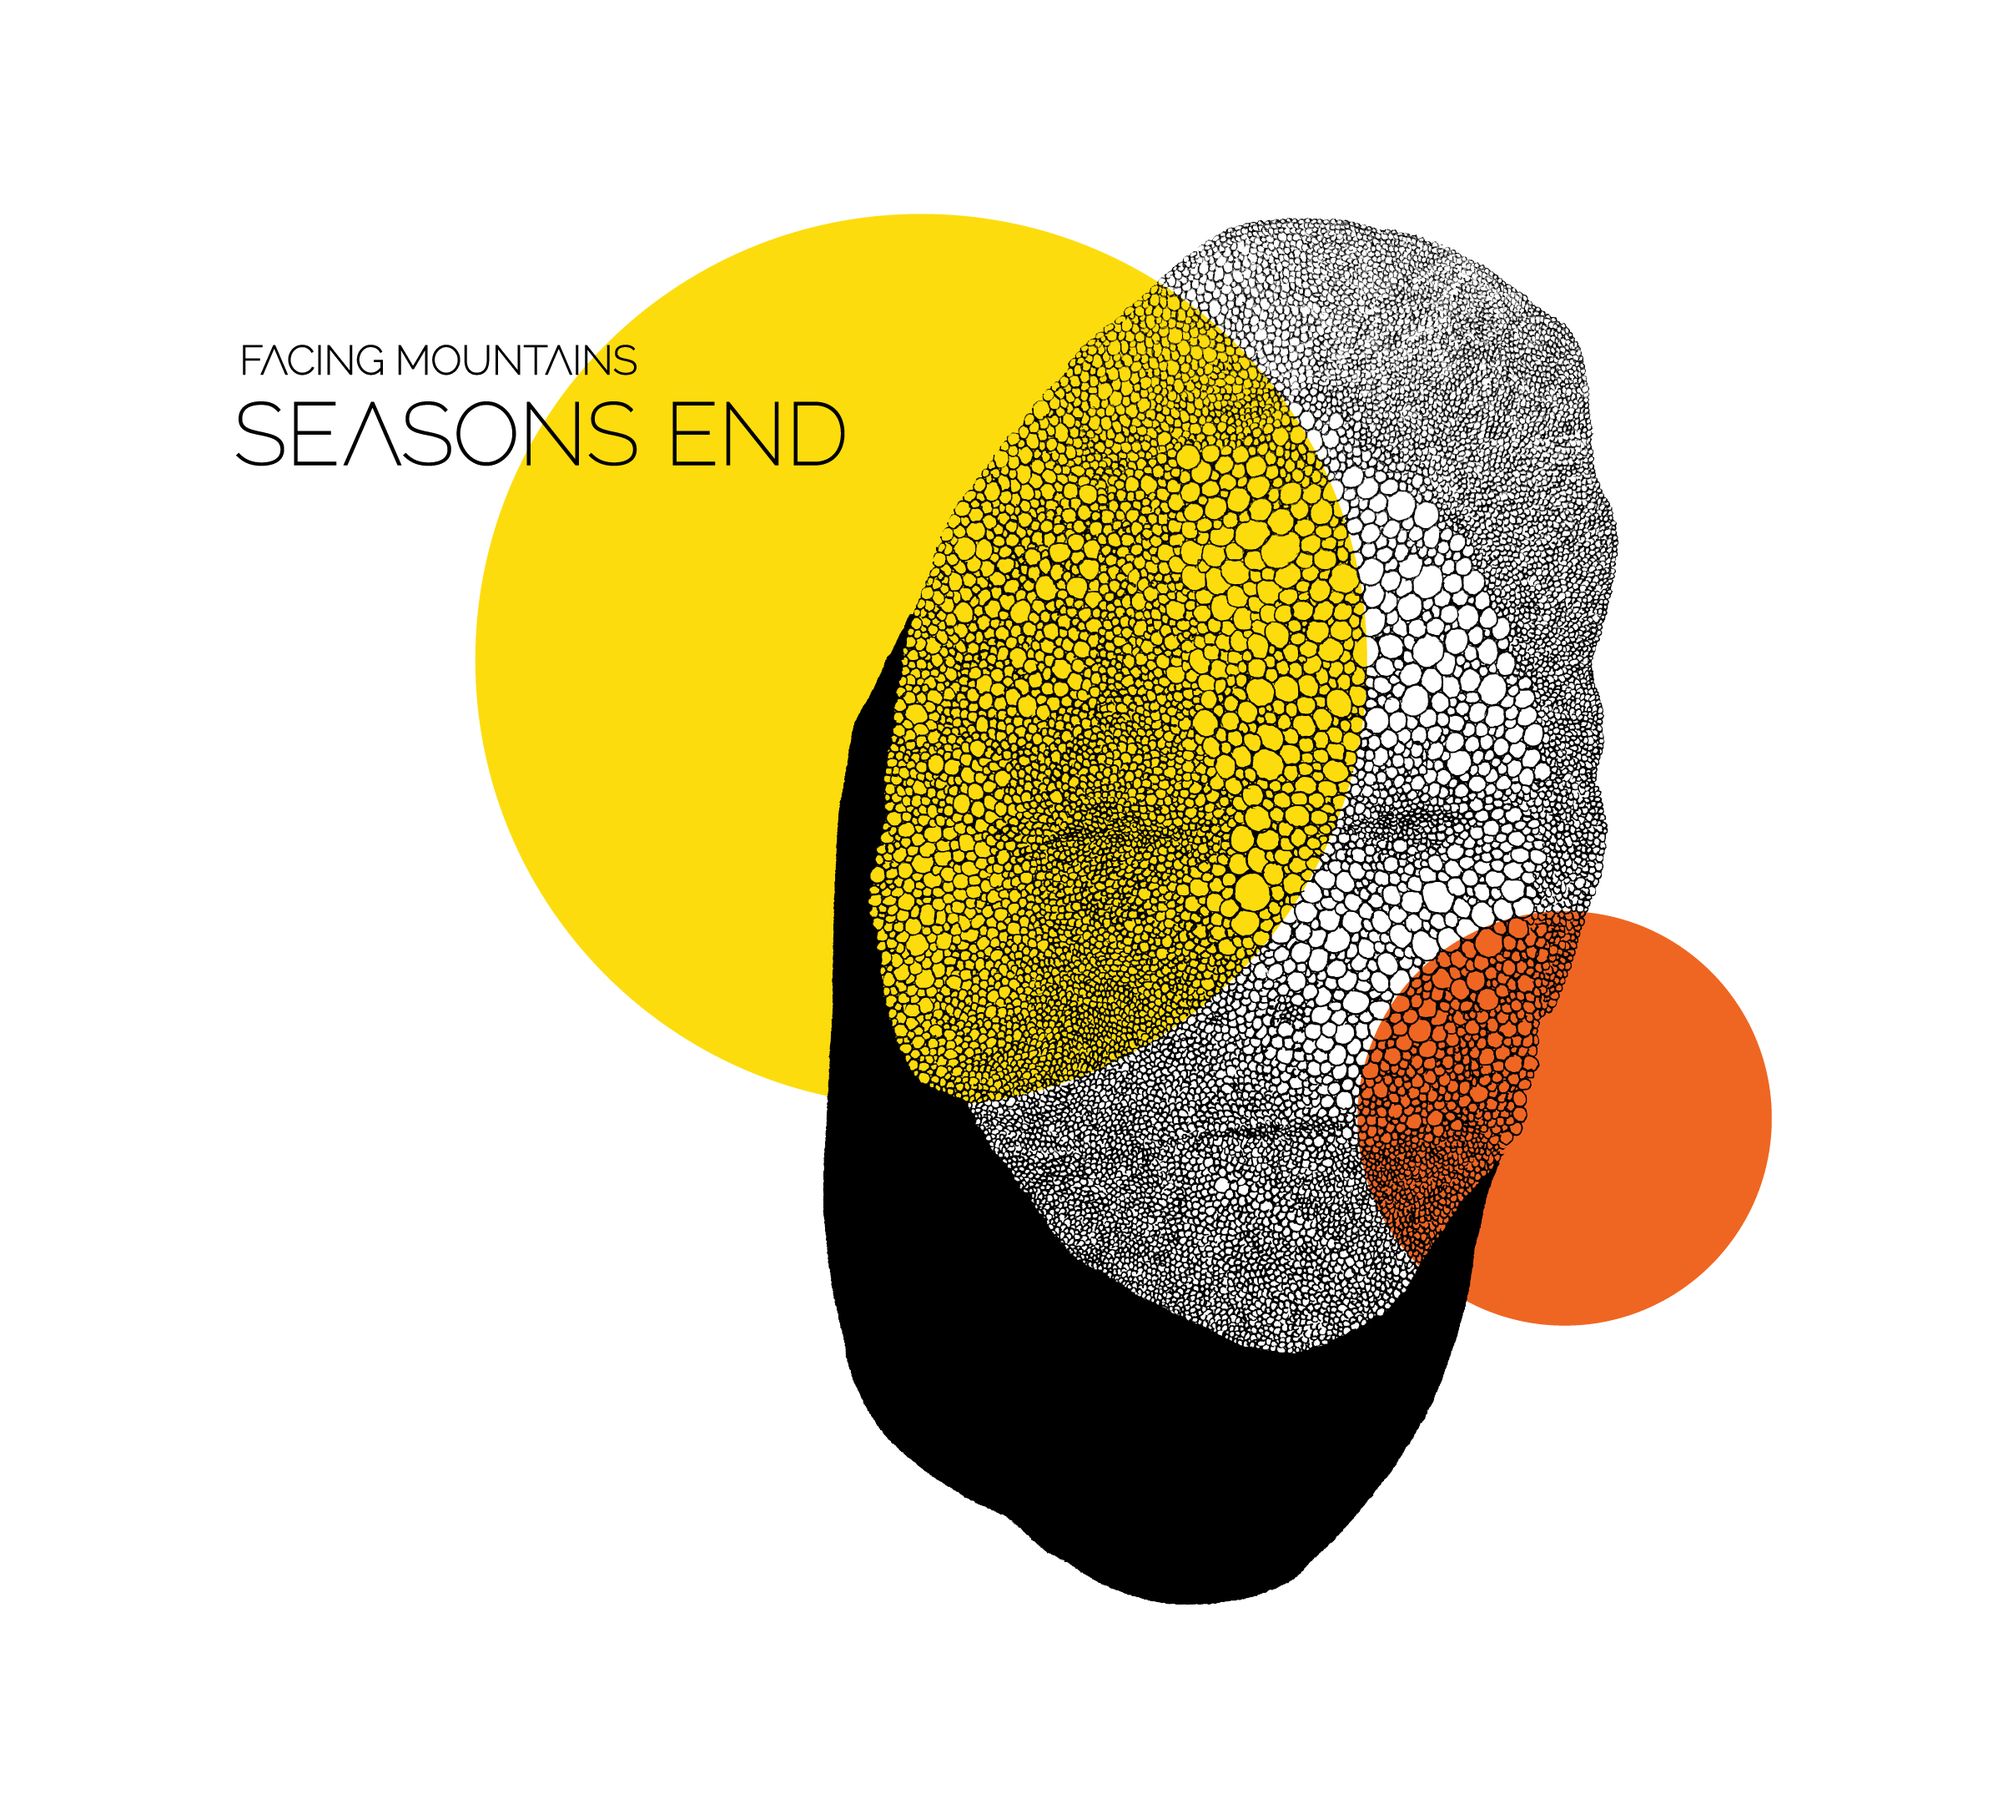
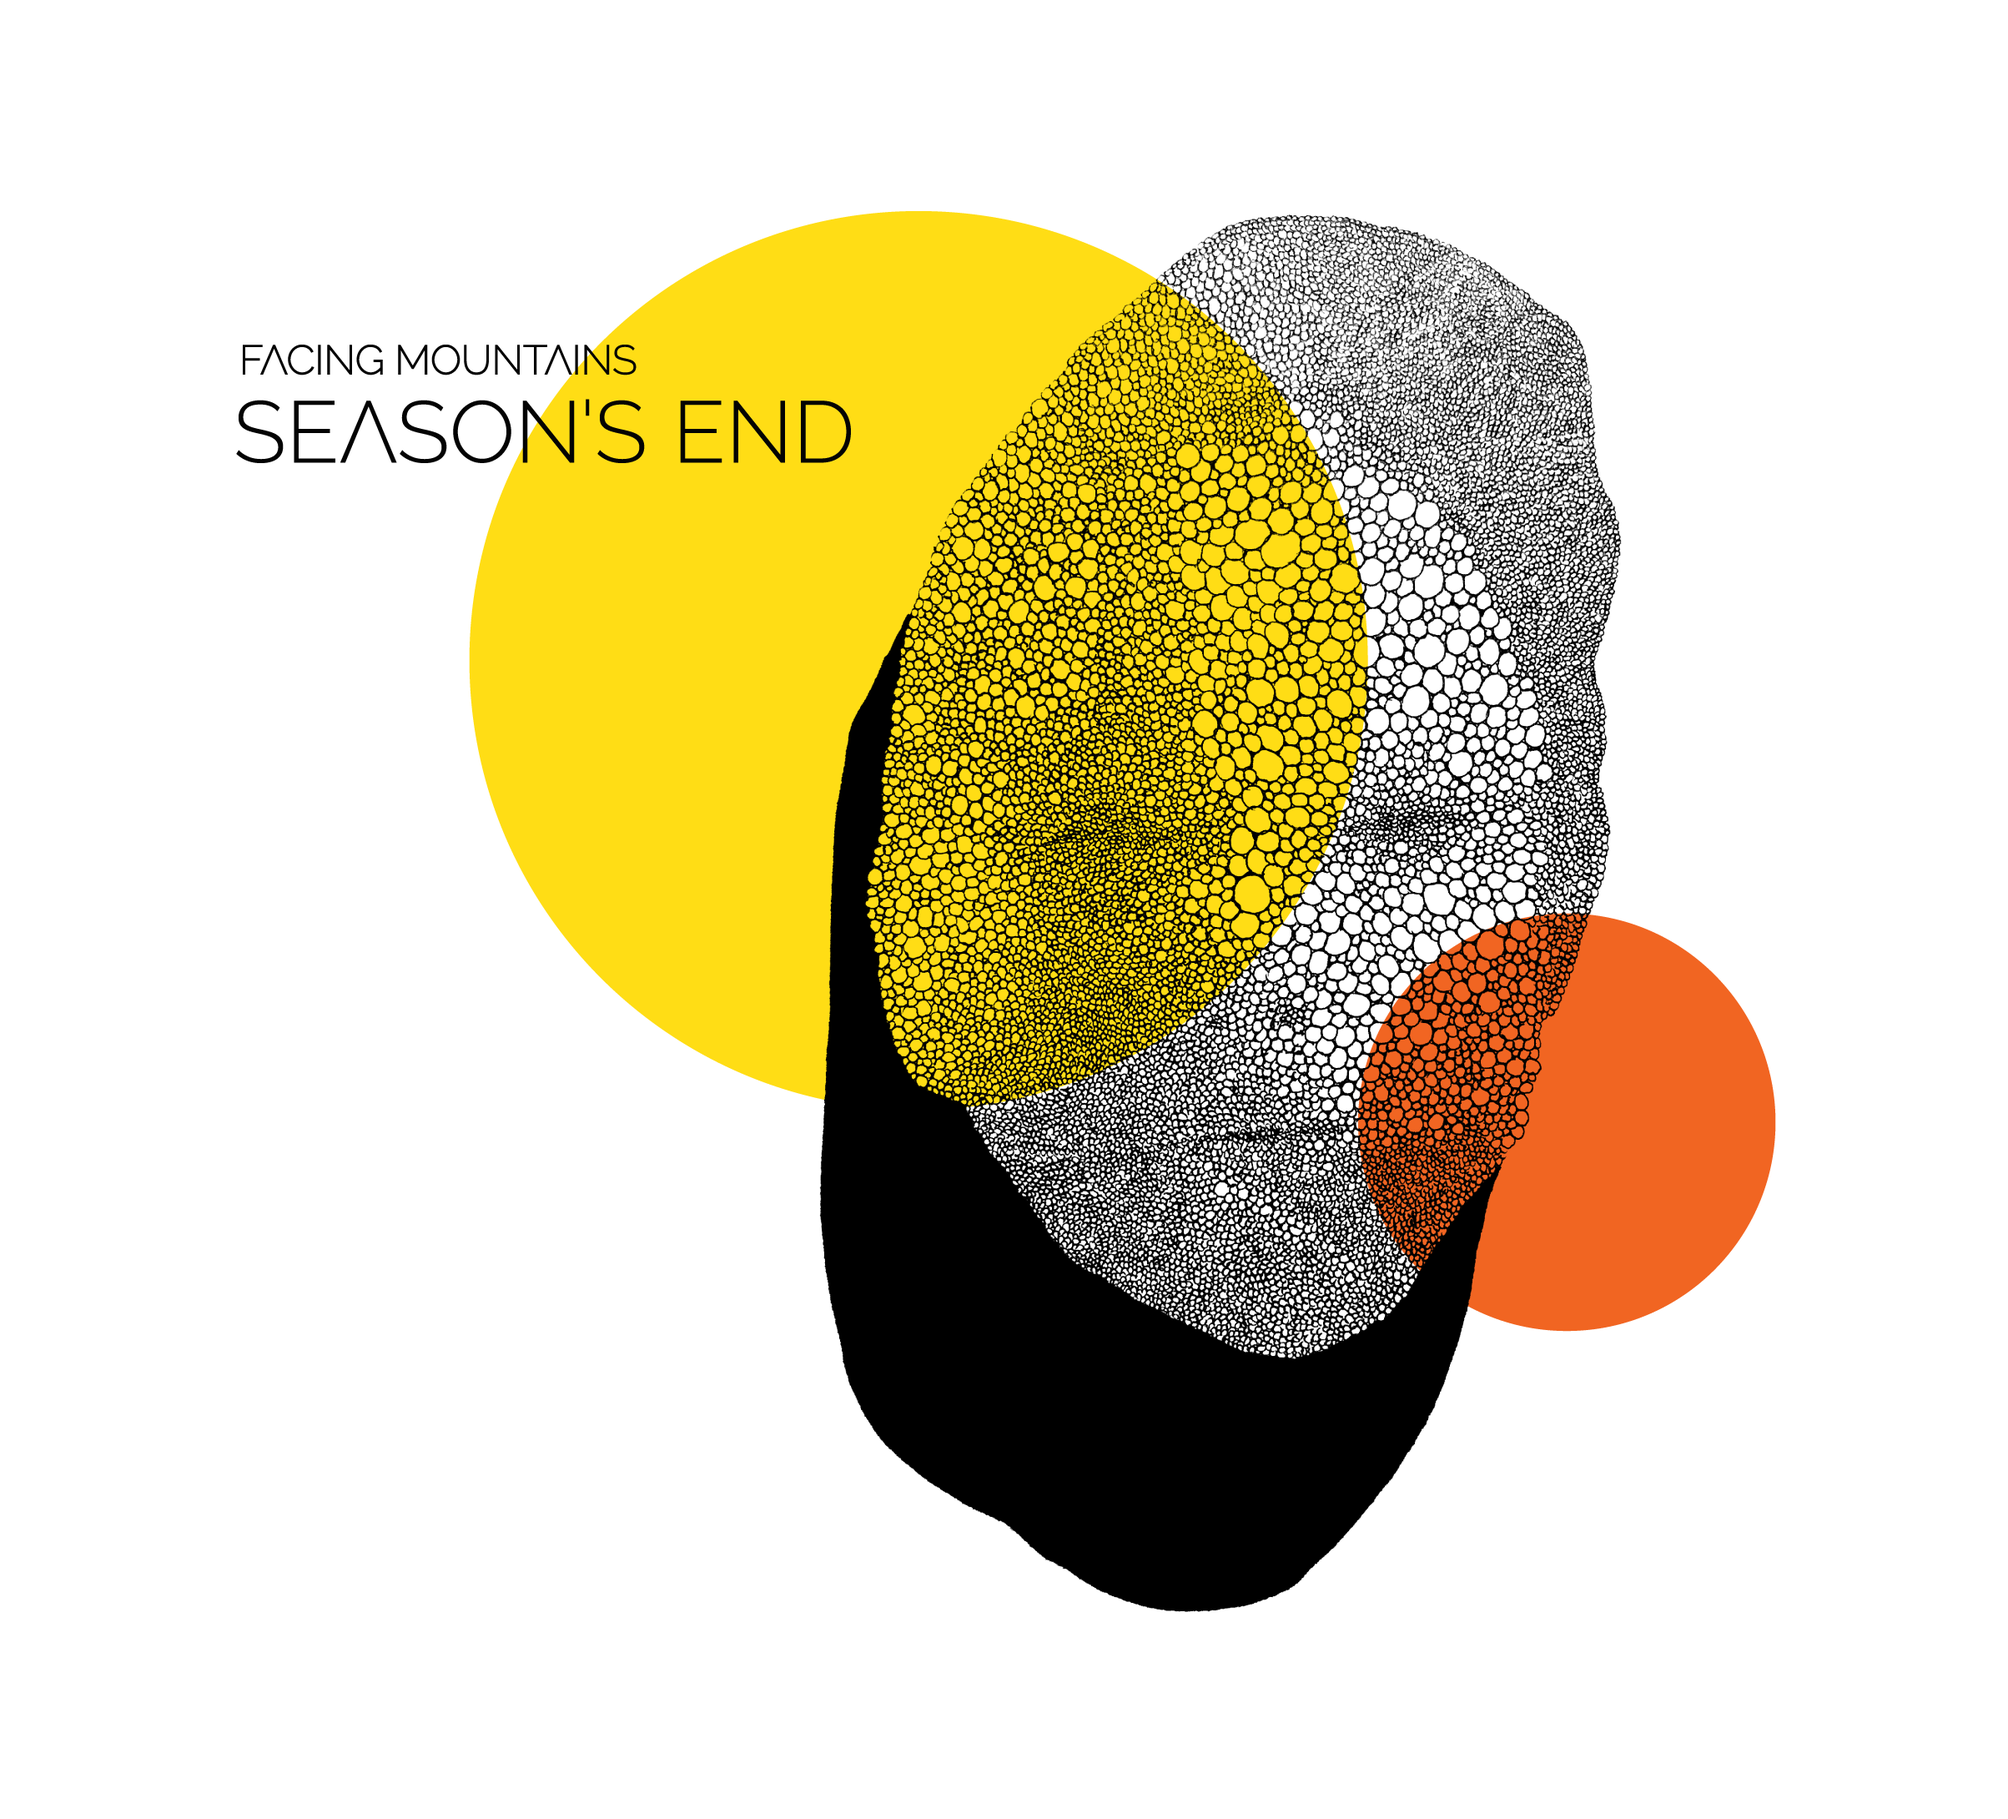
image change,bio and player update

diff --git a/index.html b/index.html
@@ -105,7 +105,7 @@
     <section id="listen" class="section section-listen is-background-light">
       <div class="listen-content">
         <div class="listen-spotfy-player">
-          <iframe src="https://open.spotify.com/embed/album/6CRrgb2SrDAtj2mMOu1Pfb" width="300" height="380"
+          <iframe src="https://open.spotify.com/embed/playlist/4MFdyILN00IcVmgeLf4pMD" width="300" height="380"
             frameborder="0" allowtransparency="true" allow="encrypted-media"></iframe>
         </div>
         <img class="listen-cover-image" src="assets/img/image_face-01.png" />
@@ -143,28 +143,22 @@
           </div>
           <div class="bio-text">
             <p>
-              The personal and heartfelt music of Facing Mountains was born
-              out of a longing from Dutch composer and songwriter Xander
-              Slikker. After treading on numerous musical journeys, he
-              developed an interest for new and old music. Eventually he has
-              found a way to combine his love for classical, alternative and
-              electronic music, and shape it into one identity.
+              The personal and heartfelt music of Facing Mountains was born out of a longing from Dutch composer and
+              songwriter Xander Slikker. After treading on numerous musical journeys, he has found a way to combine his
+              love for classical, alternative and electronic music and shape it into one identity.
             </p>
             <p>
-              A believe in the power of melodic storytelling is what lies
-              behind and drives Facing Mountains. The fluid style evokes
-              introspective images with it's strong influence of classical
-              music and fine balance between acoustic and electronic sounds.
-              With artists such as Gotye, Radiohead and Nick Drake as an
-              inspiration, Facing Mountains creates rich and colourful
-              alternative pop music with cinematic elements.
+
+              What drives Facing Mountains is a firm belief in the power of melodic storytelling. The fluid style evokes
+              introspective images with its strong influence of classical music and fine balance between acoustic and
+              electronic sounds. Facing Mountains creates rich and colourful alternative pop music with cinematic
+              elements. Inspiration is drawn from a variety of artists, such as Gotye, Radiohead and Nick Drake.
+
             </p>
             <p>
-              In 2020, after a year of isolation and devotion to working on
-              new music, the first self-produced album 'Season's end' was
-              released. This was a first step into a longer musical journey.
-              Set to discover the expressive possibilities of story, melody
-              and melancholy.
+              In 2021, after a year of isolation and devotion to working on new music, the first self-produced album
+              'Season's End' will be released. This is a first step into a longer musical journey, set to discover the
+              expressive possibilities of story, melody and melancholy.
             </p>
           </div>
           <div class="bio-media media-bar">

diff --git a/assets/css/mountain_style.css b/assets/css/mountain_style.css
@@ -174,7 +174,7 @@ body {
 .listen-spotfy-player iframe {
   position: absolute;
   max-width: 240px;
-  max-height: 160px;
+  max-height: 280px;
   margin: 0 auto;
 }
 

diff --git a/README.md b/README.md
@@ -1,0 +1,2 @@
+
+http://facingmountains.net/
